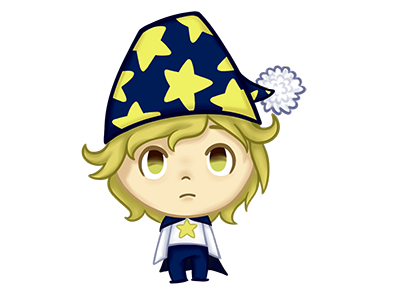
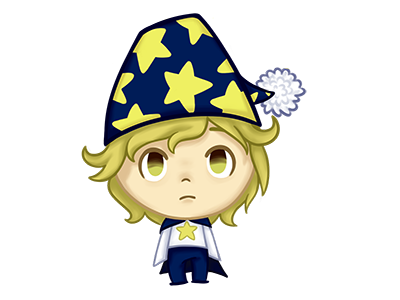
Add new frames to walk animation

Changed region(s): [[0.21, 0.03, 0.78, 0.96]]

diff --git a/src/player.cpp b/src/player.cpp
@@ -18,6 +18,14 @@ Player::Player(re::Point2f pos)
     movingAnim_Forward->add_frame(resource_manager.get_image("player_move2"));
     movingAnim_Forward->add_frame(resource_manager.get_image("player_move3"));
     movingAnim_Forward->add_frame(resource_manager.get_image("player_move4"));
+    movingAnim_Forward->add_frame(resource_manager.get_image("player_move5"));
+    movingAnim_Forward->add_frame(resource_manager.get_image("player_move6"));
+    movingAnim_Forward->add_frame(resource_manager.get_image("player_move7"));
+    movingAnim_Forward->add_frame(resource_manager.get_image("player_move8"));
+    movingAnim_Forward->add_frame(resource_manager.get_image("player_move9"));
+    movingAnim_Forward->add_frame(resource_manager.get_image("player_move10"));
+    movingAnim_Forward->add_frame(resource_manager.get_image("player_move11"));
+    movingAnim_Forward->add_frame(resource_manager.get_image("player_move12"));
 
     re::subscribe_to_event_type(this, MOVE_EVENT_CATEGORY, (int)MoveEventType::PLAYER_MOVE);
 }
@@ -70,8 +78,8 @@ void Player::display(re::Camera camera){
 
     float size = camera.meter_to_screen(50);
 
-    re::draw_image_part(screen_pos.x - size, screen_pos.y - size,
-                        screen_pos.x + size, screen_pos.y + size,
+    re::draw_image_part(screen_pos.x, screen_pos.y,
+                        400, 600,
                         0, 0, 1, 1,
                         movingAnim_Forward->getNextFrame());
 }
